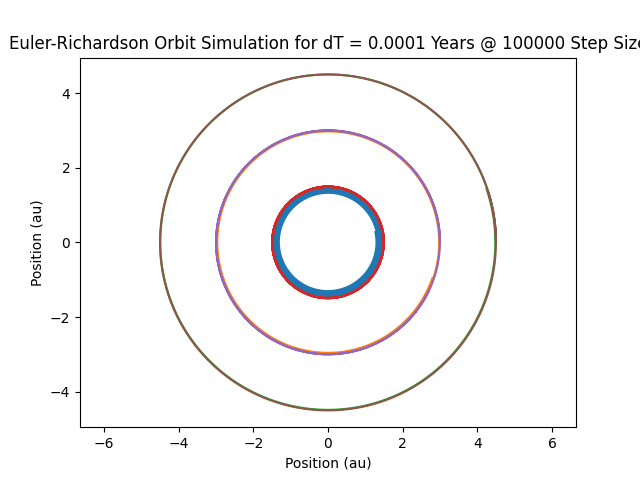
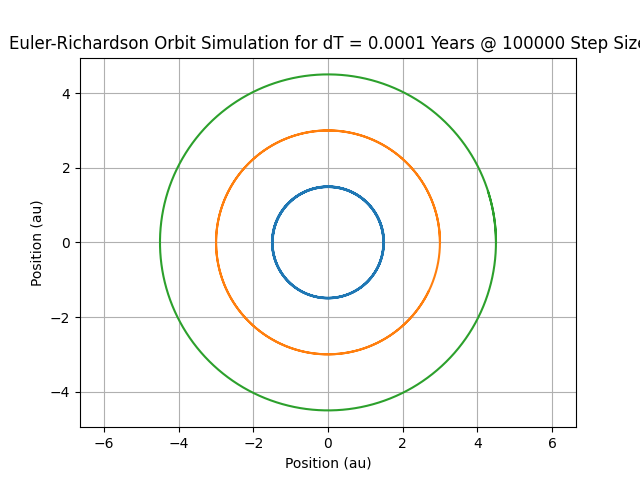
Overlapped Images Fix

diff --git a/Chapter 5/Orbits.py b/Chapter 5/Orbits.py
@@ -30,7 +30,8 @@ plt.title("Gravitational Force of the Sun on the Earth")
 plt.ylabel("Force (N)")
 plt.xlabel("Angle (rads)")
 plt.savefig(Directory + '/GForce_Sun_Earth')
-plt.show()
+plt.gcf().clf()
+# plt.show()
 
 OrbitalPeriod = 3.153 * (10**(7))
 OrbitalSpeed = (2 * np.pi * Au ) / OrbitalPeriod
@@ -92,7 +93,8 @@ for k in range(3):
     plt.axis('equal')
     plt.grid()
     plt.savefig(Directory + f'/1Body_Orbit_Euler_{Steps}_Steps')
-    plt.show()
+    plt.gcf().clf()
+    # plt.show()
 
 
 # Euler-Richardson
@@ -152,6 +154,7 @@ for k in range(3):
     plt.axis('equal')
     plt.grid()
     plt.savefig(Directory + f'/1Body_Orbit_Euler-Richardson_{Steps}_Steps')
+    plt.gcf().clf()
     # plt.show()
 
     
@@ -202,7 +205,8 @@ for k in range(3):
     plt.axis('equal')
     plt.grid()
     plt.savefig(Directory + f'/1Body_Orbit_Verlet_{Steps}_Steps')
-    plt.show()
+    # plt.show()
+    plt.gcf().clf()
 
 
 
@@ -251,6 +255,6 @@ for k in range(3):
     plt.axis('equal')
     plt.grid()
     plt.savefig(Directory + '/Earth_Orbit_Decreased_Velocity')
-    plt.show()
+    # plt.show()
 
 print("Done")
